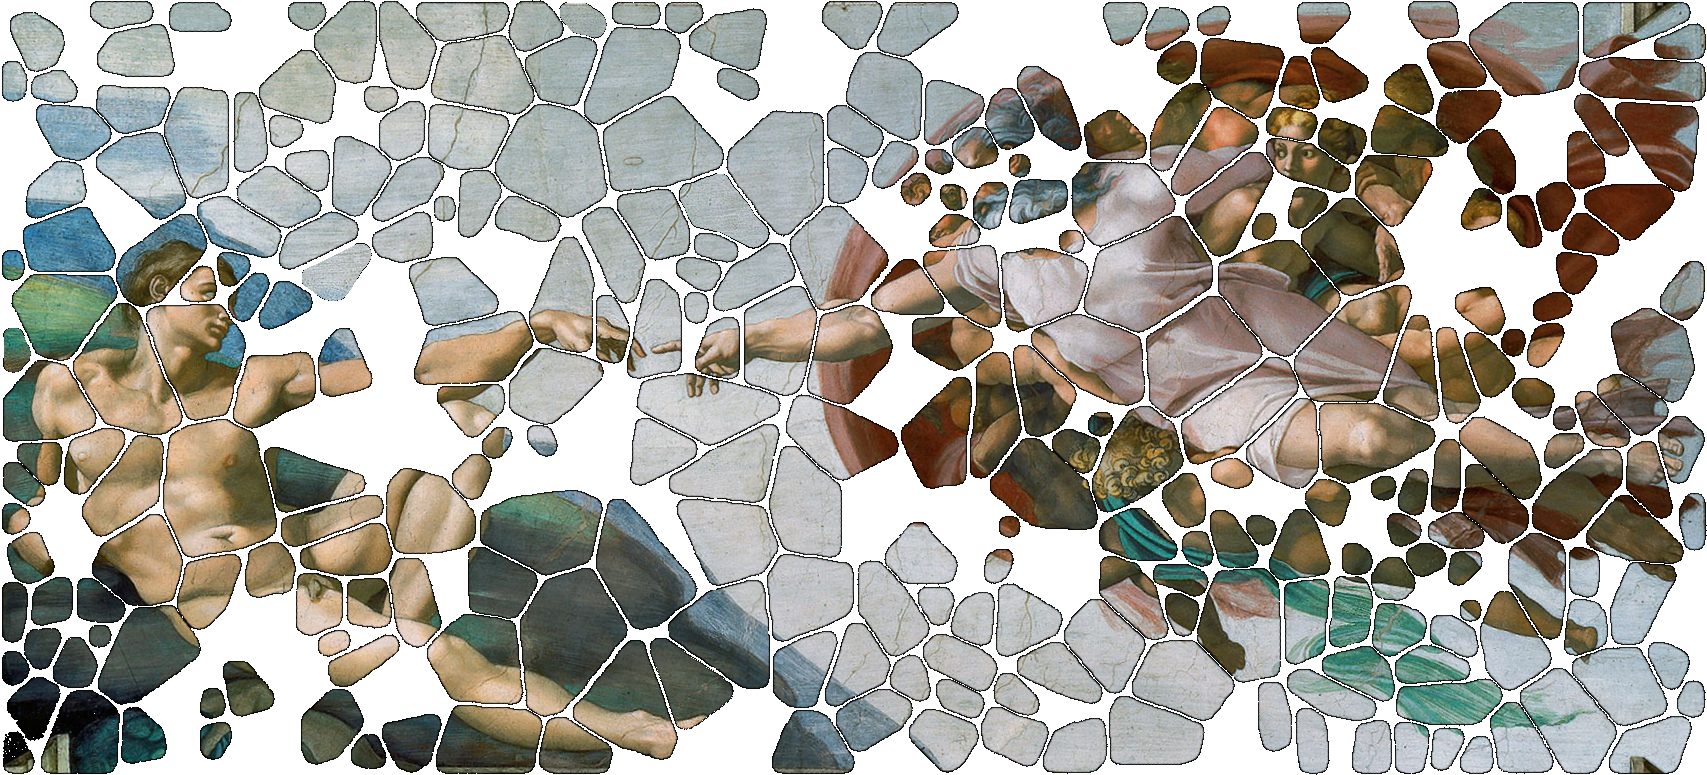
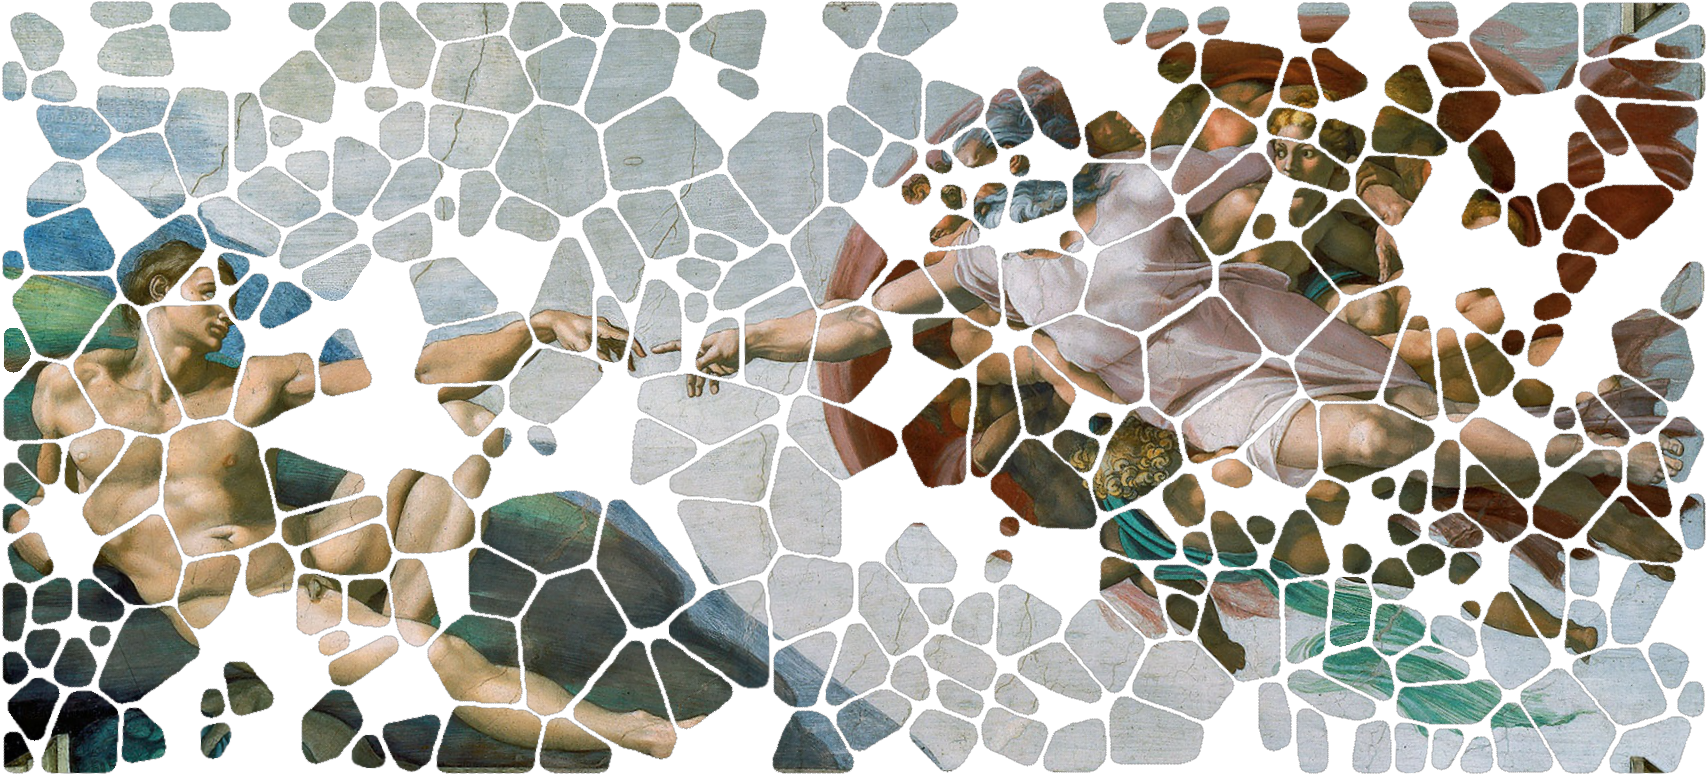
use_alpha

diff --git a/partie_1/tp1-1.cpp b/partie_1/tp1-1.cpp
@@ -16,58 +16,53 @@ int main()
 
     int fresqueWidth = 1707;
     int fresqueHeight = 775;
-    cv::Mat fresque(fresqueHeight, fresqueWidth, CV_8UC3, cv::Scalar(255, 255, 255)); // empty fresque
+    cv::Mat fresque(fresqueHeight, fresqueWidth, CV_8UC4, cv::Scalar(255, 255, 255)); // empty fresque
 
     while (fragmentFile >> index >> posx >> posy >> angle)
     {
-        if (index < 400)
+
+        // Load the fragment
+        std::string fragmentFileName = "../frag_eroded/frag_eroded_" + std::to_string(index) + ".png";
+        cv::Mat fragment = cv::imread(fragmentFileName, -1);
+
+        if (fragment.empty())
         {
+            std::cerr << "Erreur : Impossible de charger l'image " << fragmentFileName << std::endl;
+            return 1;
+        }
 
-            // Load the fragment
-            std::string fragmentFileName = "../frag_eroded/frag_eroded_" + std::to_string(index) + ".png";
-            cv::Mat fragment = cv::imread(fragmentFileName);
+     
 
-            if (fragment.empty())
+        // Rotate the fragment
+        cv::Mat rotationMatrix = cv::getRotationMatrix2D(cv::Point(fragment.cols / 2, fragment.rows / 2), angle, 1);
+        cv::Mat rotatedFragment;
+        cv::warpAffine(fragment, rotatedFragment, rotationMatrix, fragment.size());
+
+        // Coordinate of the top left corner of the fragment
+        int x = static_cast<int>(posx - rotatedFragment.cols / 2);
+        int y = static_cast<int>(posy - rotatedFragment.rows / 2);
+
+        // copy the fragment to the fresque
+        for (int i = 0; i < rotatedFragment.rows; i++)
+        {
+            for (int j = 0; j < rotatedFragment.cols; j++)
             {
-                std::cerr << "Erreur : Impossible de charger l'image " << fragmentFileName << std::endl;
-                return 1;
-            }
-
-            // position of the fragment
-            std::cout << "Index: " << index << ", Position: (" << posx << ", " << posy << "), Angle: " << angle << std::endl;
-
-            // Rotate the fragment
-            cv::Mat rotationMatrix = cv::getRotationMatrix2D(cv::Point(fragment.cols / 2, fragment.rows / 2), angle, 1);
-            cv::Mat rotatedFragment;
-            cv::warpAffine(fragment, rotatedFragment, rotationMatrix, fragment.size());
-
-            // Placez le fragment dans l'image de fresque
-            int x = static_cast<int>(posx - rotatedFragment.cols / 2);
-            int y = static_cast<int>(posy - rotatedFragment.rows / 2);
-
-            // copy the fragment to the fresque
-            for (int i = 0; i < rotatedFragment.rows; i++)
-            {
-                for (int j = 0; j < rotatedFragment.cols; j++)
+                cv::Vec4b &pixel = rotatedFragment.at<cv::Vec4b>(i, j);
+                if (pixel[3] > 0)
                 {
-                    if (rotatedFragment.at<cv::Vec3b>(i, j) != cv::Vec3b(0, 0, 0))
-
-                    {
-                        fresque.at<cv::Vec3b>(y + i, x + j) = rotatedFragment.at<cv::Vec3b>(i, j);
-                    }
+                    fresque.at<cv::Vec4b>(y + i, x + j) = pixel;
                 }
             }
         }
+    
     }
+        // Save l'image de la fresque finale
+        cv::imwrite("fresque_reconstruite.png", fresque);
 
-    // Enregistrez l'image de la fresque finale
-    cv::imwrite("fresque_reconstruite.png", fresque);
+        // print the fresque
+        cv::imshow("Fresque", fresque);
+        cv::waitKey(0);
 
-    // print the fresque
-    // cv::namedWindow("fresque image", cv::WINDOW_AUTOSIZE);
-    cv::imshow("Fresque", fresque);
-    cv::waitKey(0);
-
-    fragmentFile.close();
-    return 0;
+        fragmentFile.close();
+        return 0;
 }
